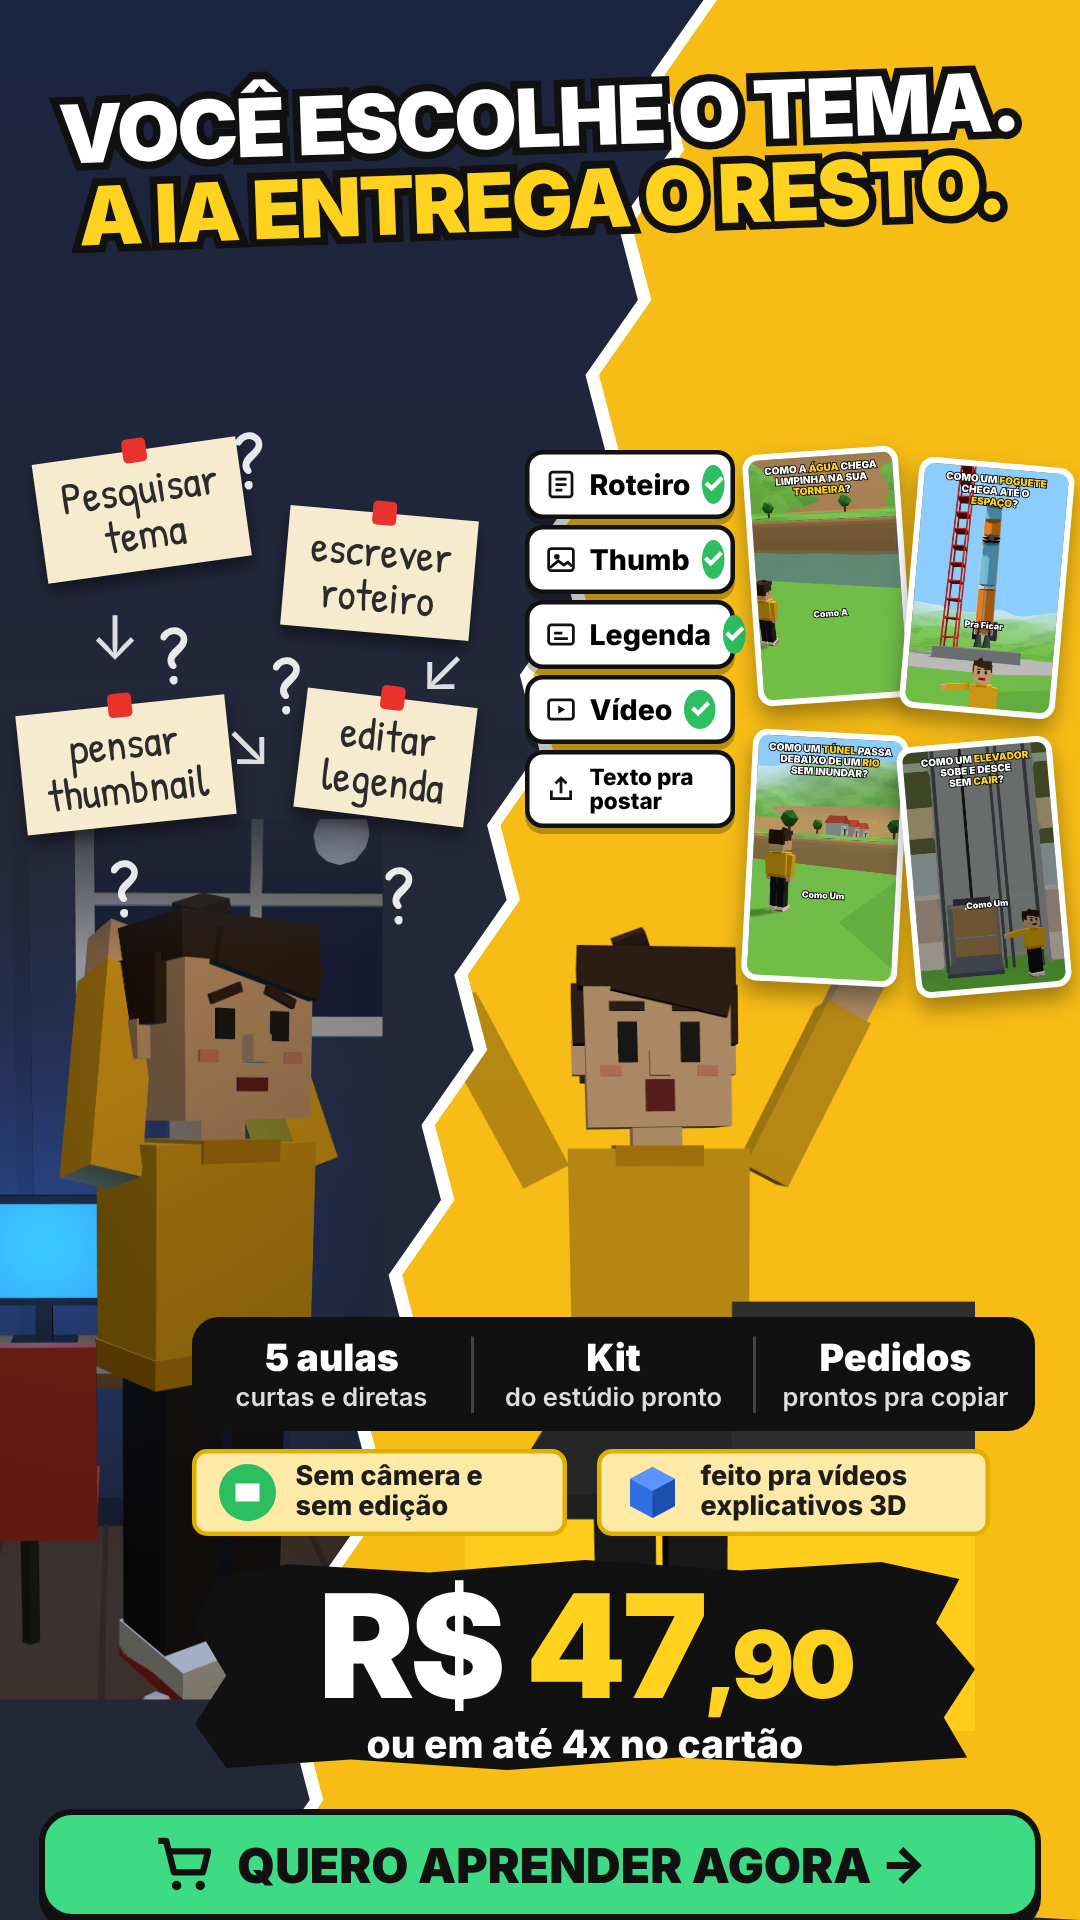
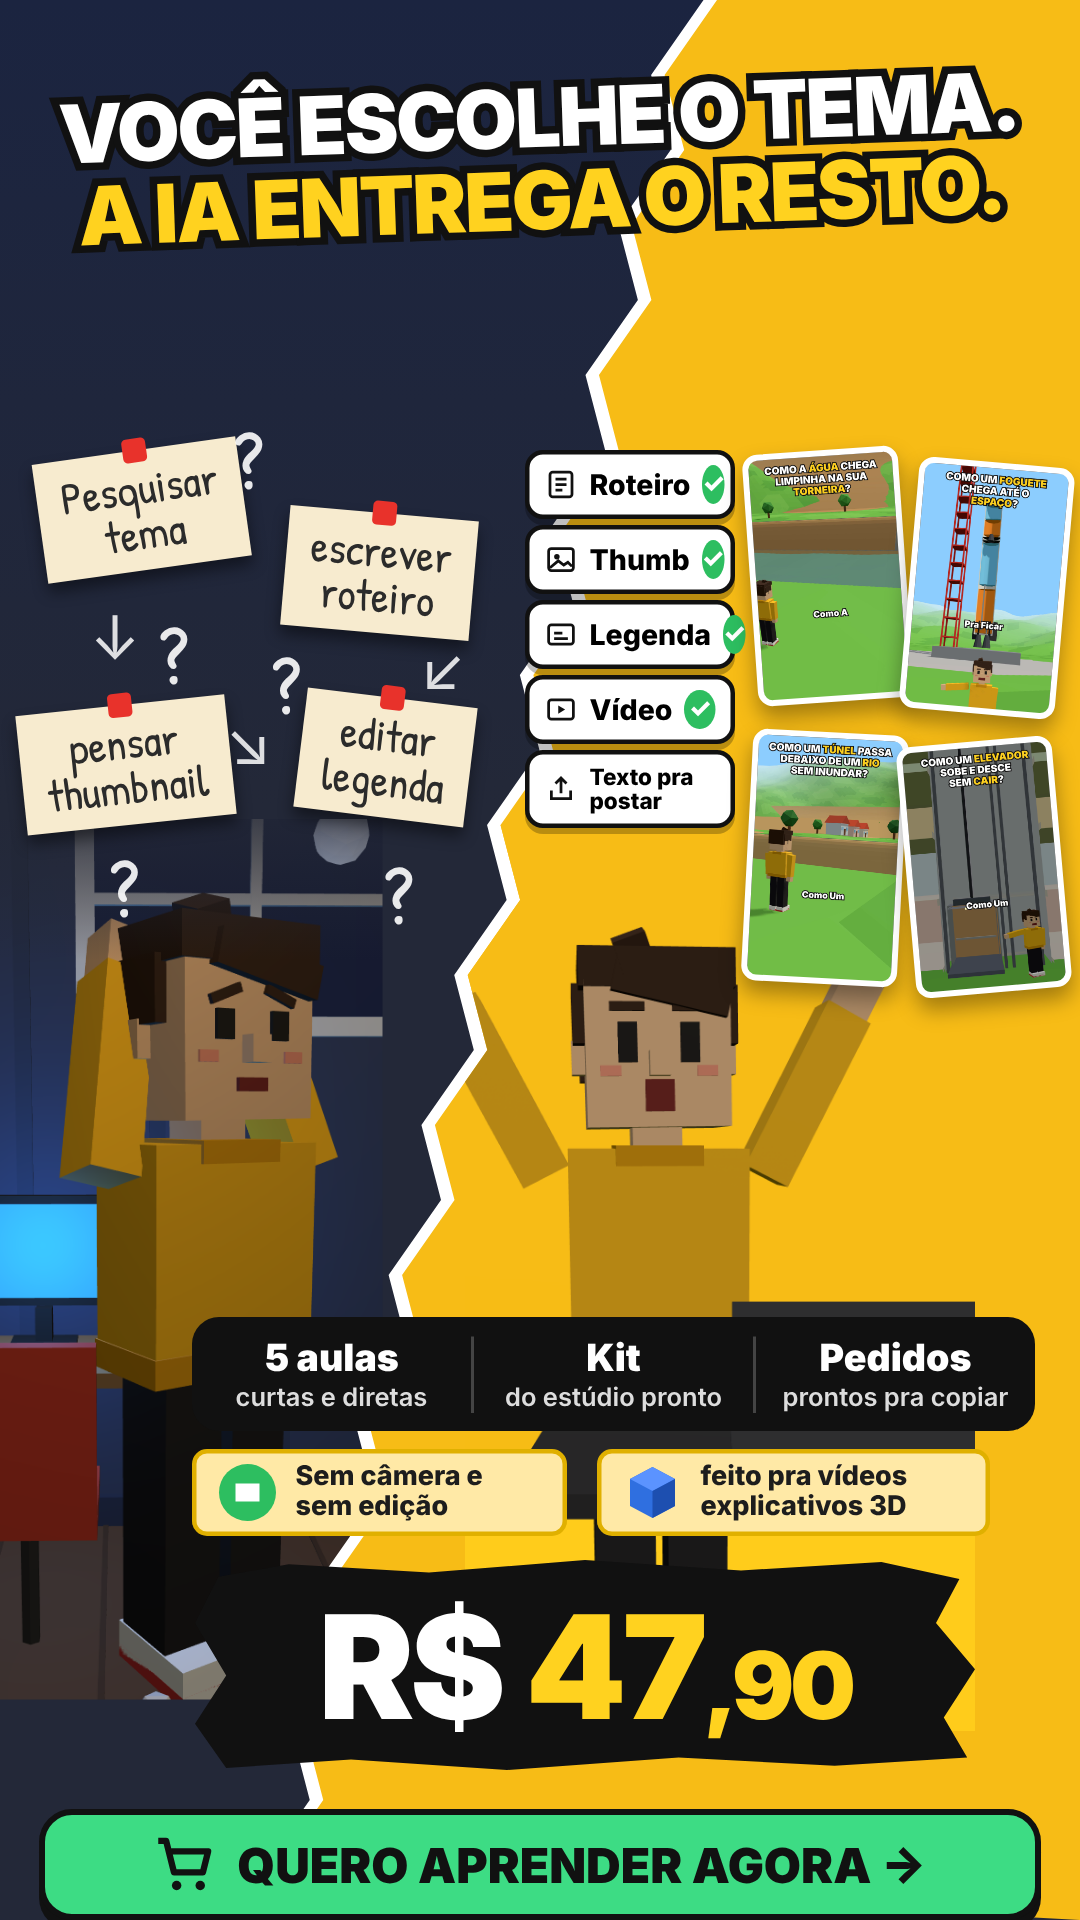
Arte de anúncio: sem a linha de parcelamento (opcional por parâmetro), preço centralizado
Claude-Session: https://claude.ai/code/session_016k7wjD4mB5xR6W8SiNnLAW

Changed region(s): [[0.3056, 0.8125, 0.7944, 0.9375]]

diff --git a/meu-projeto/estudio3d/anuncio/arte.html b/meu-projeto/estudio3d/anuncio/arte.html
@@ -3,7 +3,7 @@
 <head>
 <meta charset="utf-8">
 <!-- Arte estática de anúncio (Stories/Reels 1080x1920). Gerada por estudio3d/anuncio/arte.js.
-     Parâmetros: ?preco=47,90&parcela=ou%20em%20até%204x%20no%20cartão -->
+     Parâmetros: ?preco=47,90 (opcional: &parcela=ou%204x%20de%20R%24%2013,55) -->
 <link href="https://fonts.googleapis.com/css2?family=Patrick+Hand&display=swap" rel="stylesheet">
 <style>
   * { box-sizing: border-box; }
@@ -113,7 +113,10 @@
   const q = new URLSearchParams(location.search);
   const [reais, cent] = (q.get('preco') || '47,90').split(',');
   document.getElementById('valor').innerHTML = reais + '<small>,' + (cent || '00') + '</small>';
-  document.getElementById('parcela').textContent = q.get('parcela') || 'ou em até 4x no cartão';
+  // parcelamento só aparece se for passado (?parcela=...); sem ele, o preço fica centralizado
+  const parc = q.get('parcela');
+  if (parc) document.getElementById('parcela').textContent = parc;
+  else { document.getElementById('parcela').remove(); document.querySelector('.preco .valor').style.marginTop = '24px'; }
   document.getElementById('cta').textContent = q.get('cta') || 'QUERO APRENDER AGORA →';
 </script>
 </body>
